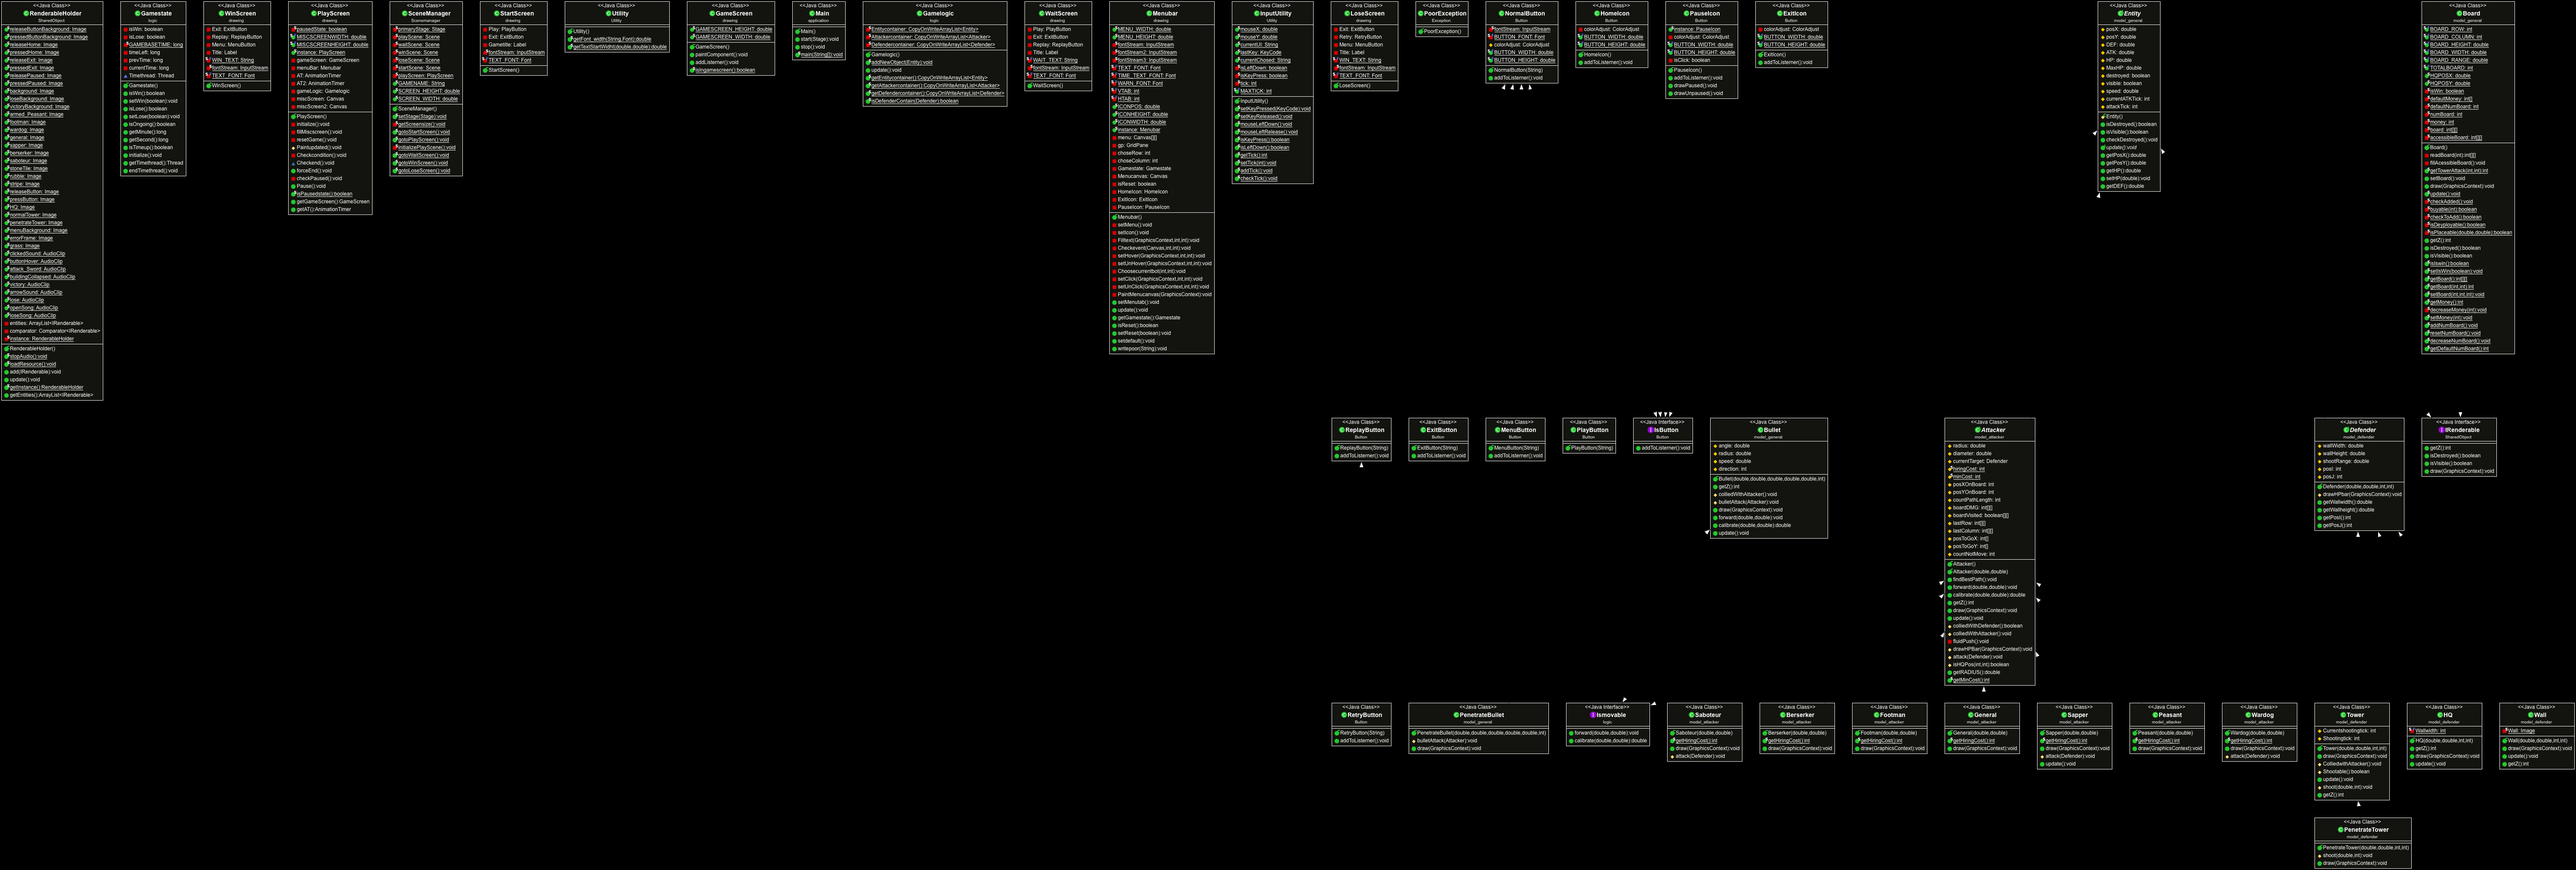
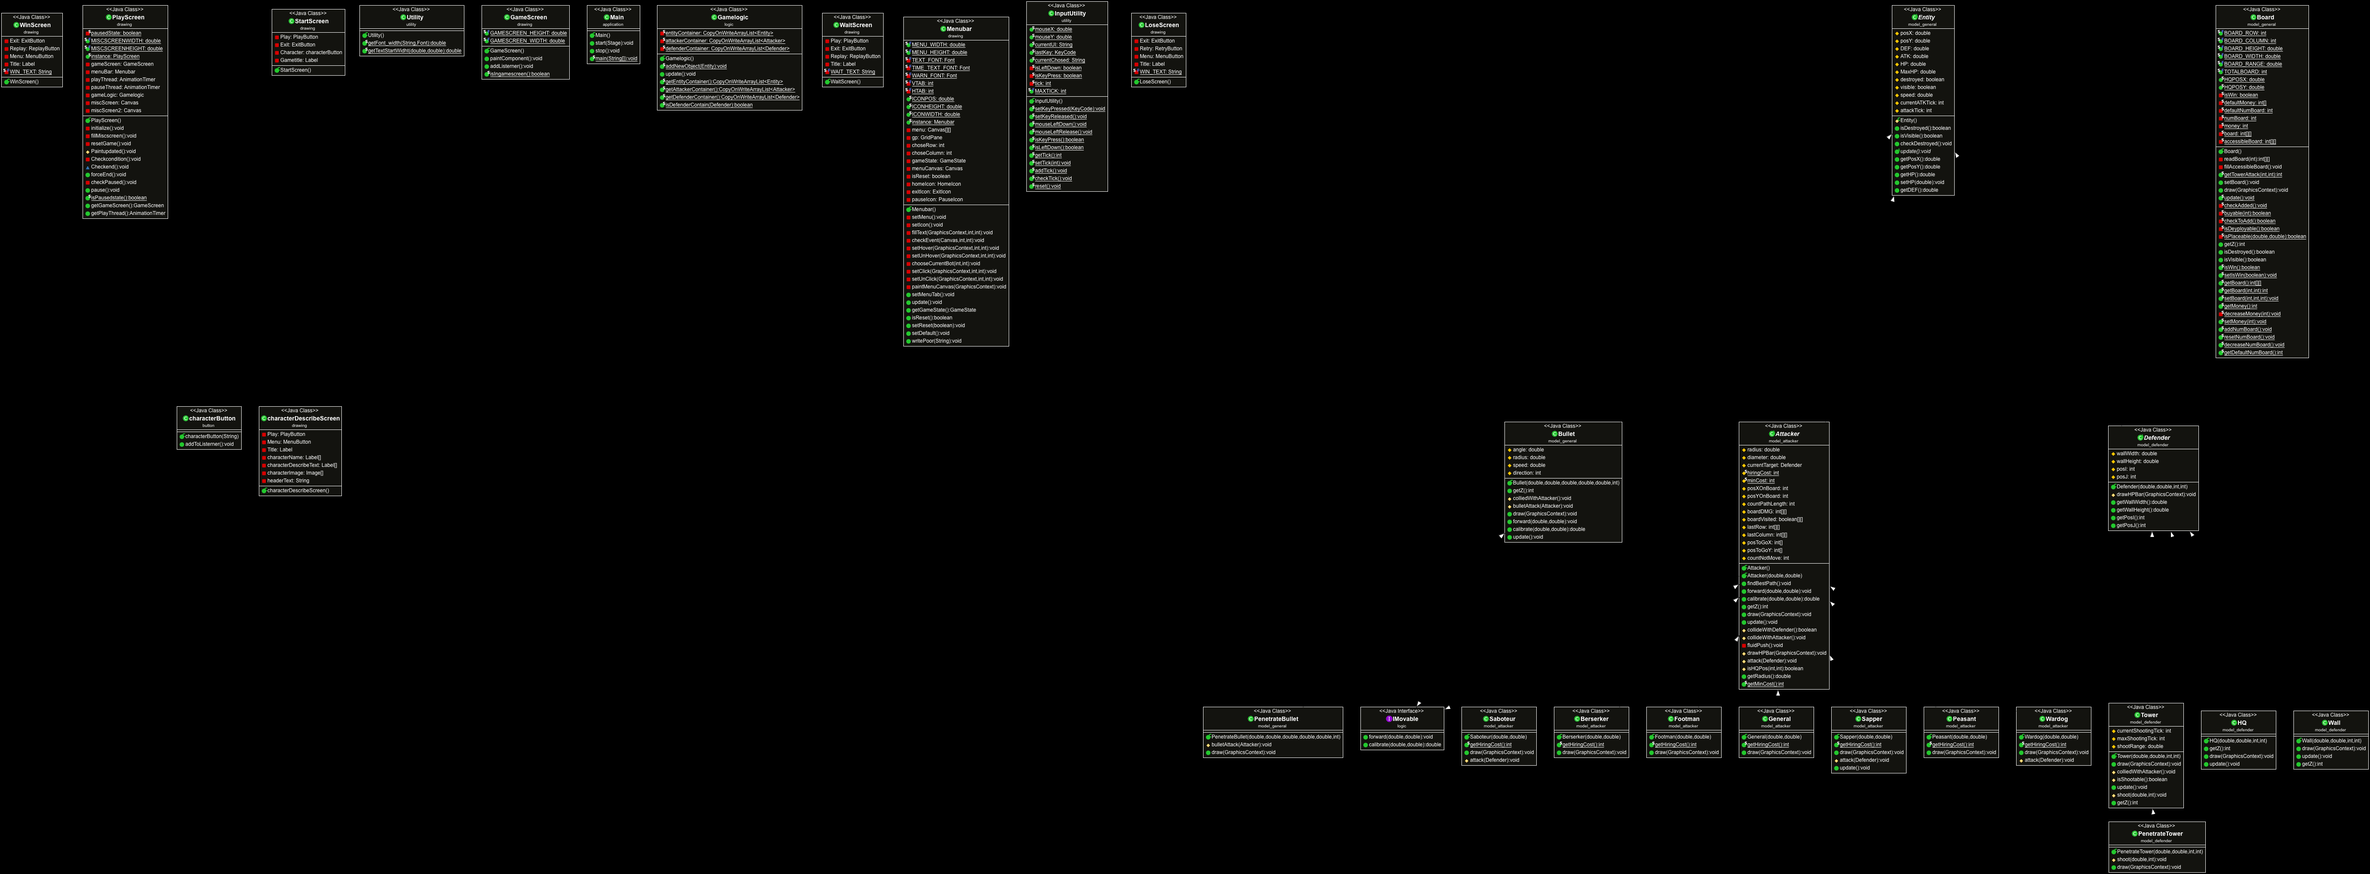
Draft characterDescribe V2

diff --git a/src/drawing/characterDescribeScreen.java b/src/drawing/characterDescribeScreen.java
@@ -30,7 +30,7 @@ public class characterDescribeScreen extends Pane{
 	private PlayButton Play;
 	private MenuButton Menu;
 	private Label Title;
-	private Label characterName[] = new Label[7];
+	private Label characterName[];
 	private Label characterDescribeText[] = new Label[7];
 	private Image characterImage[] = new Image[7];
 	private String headerText = "Character Describe";
@@ -47,6 +47,24 @@ public class characterDescribeScreen extends Pane{
 		Menu.relocate((SceneManager.screenWidth-NormalButton.BUTTON_WIDTH)*1.5/2, SceneManager.screenHeight*0.8);
 		Title=new Label(headerText);
 		characterImage[0] = RenderableHolder.armed_Peasant;
+		characterImage[1] = RenderableHolder.footman;
+		characterImage[2] = RenderableHolder.wardog;
+		characterImage[3] = RenderableHolder.berserker;
+		characterImage[4] = RenderableHolder.sapper;
+		characterImage[5] = RenderableHolder.saboteur;
+		characterImage[6] = RenderableHolder.general;
+		
+		String charName[] = {"Peasant","Footman","Wardog","Berserker","Sapper","Saboteur","General"};
+		for(int i=0;i<7;i++) {
+			characterName[i] = new Label(charName[i]);
+		}
+		String charDes[] = {"The Cheapest - Low Price Low Return","The Tanker - High Health Low Damage",
+				"The Fastest - High Speed Unit But Deal Half Damage to HQ",
+				"The Destroyer - High Damage Low Health","Wall Bomber - Suicide Attack To Wall",
+				"The HQ Hater - Deal Extra Massive Damage to HQ","The Strongest - High Price High Return"};
+		for(int i=0;i<7;i++) {
+			characterDescribeText[i] = new Label(charDes[i]);
+		}
 		
 		Title.setFont(RenderableHolder.SCREENTEXTFONT);
 		Title.setTextFill(Color.RED);
